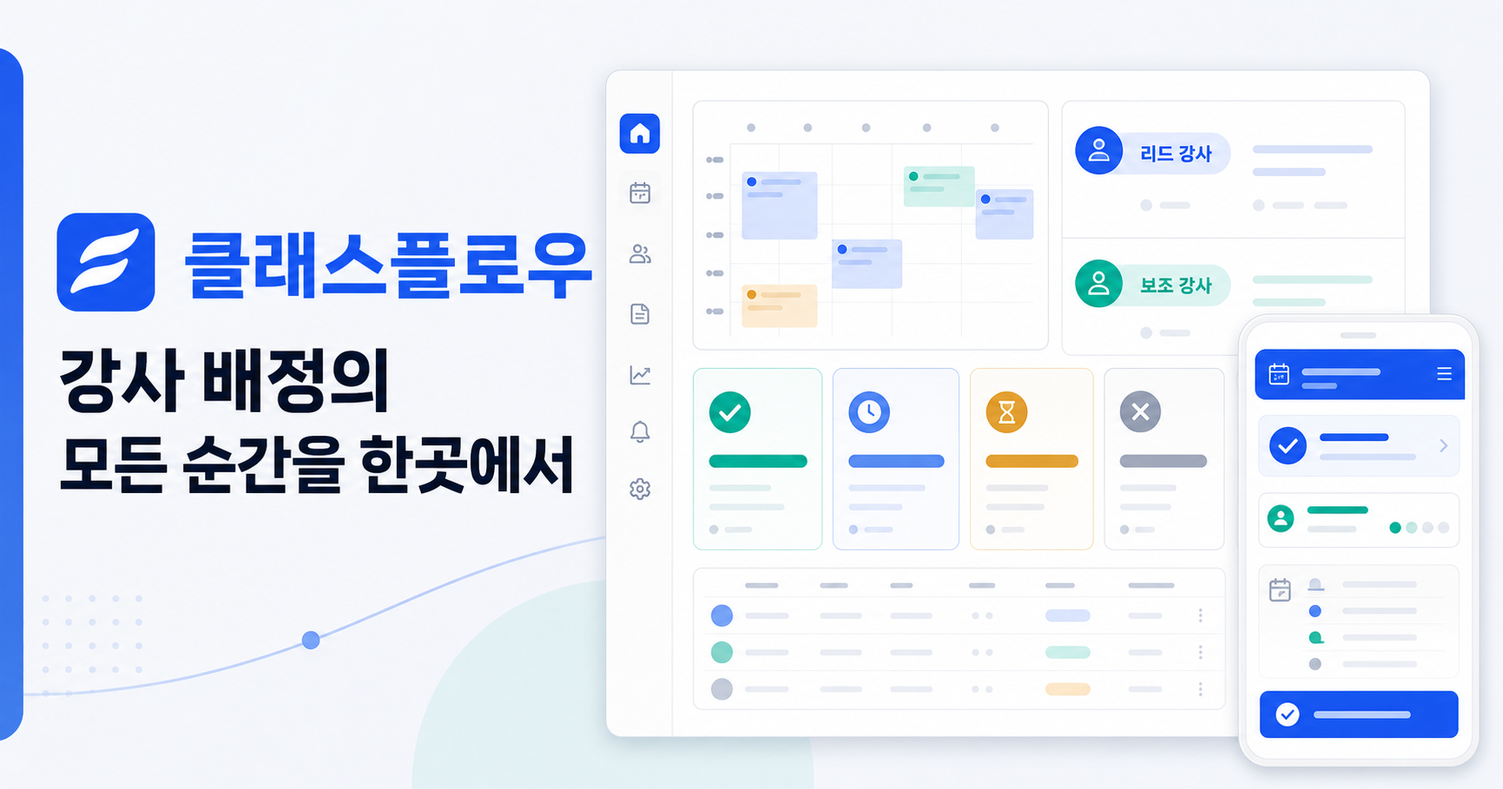
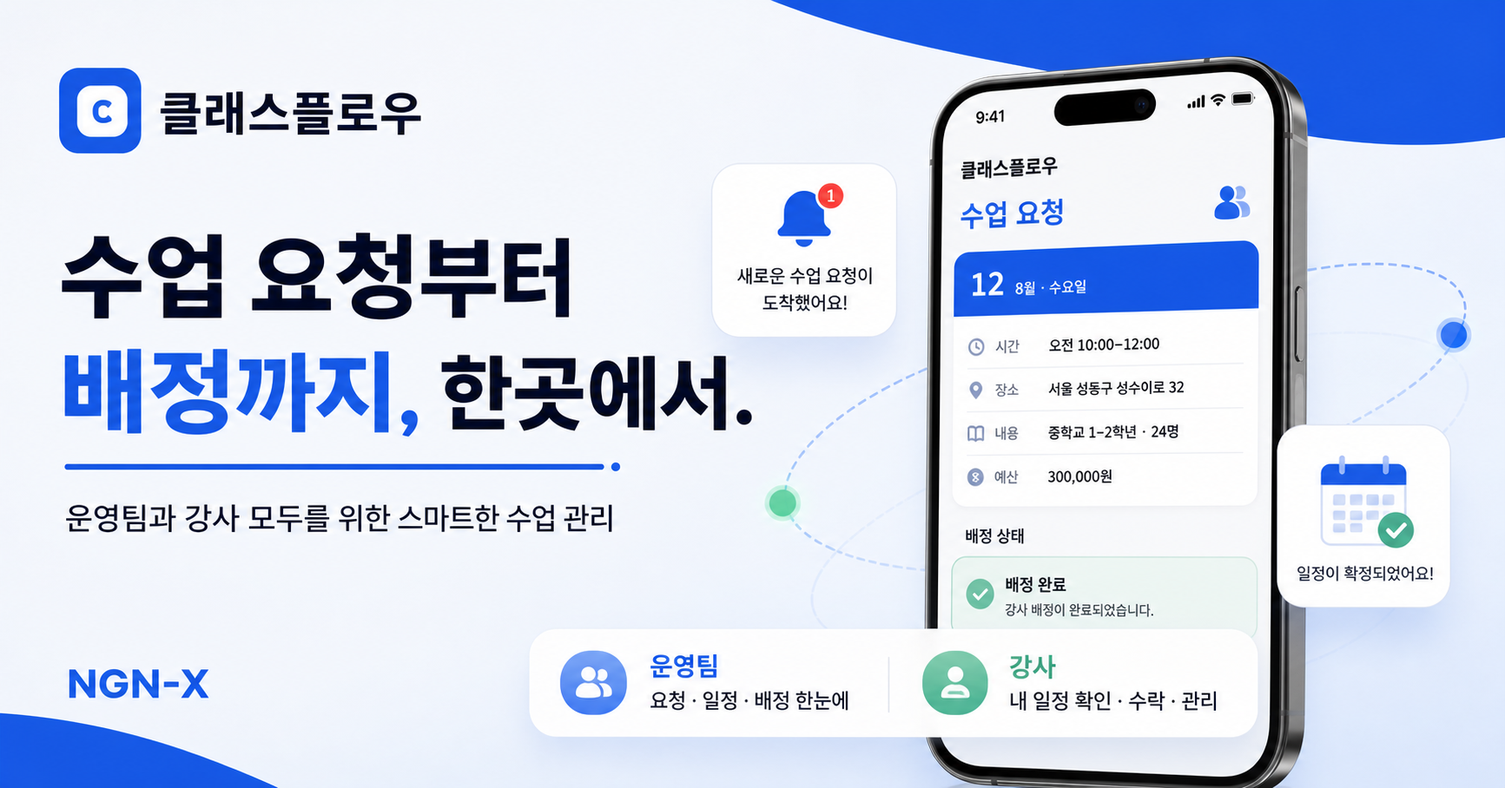
Add public ClassFlow landing and portal entry

diff --git a/app/globals.css b/app/globals.css
@@ -132,6 +132,16 @@ button:focus-visible, input:focus-visible, select:focus-visible, textarea:focus-
 }
 .instructor-request-list { margin-top: 16px; overflow: hidden; border: 1px solid var(--line); border-radius: 14px; background: #fff; box-shadow: var(--shadow); }.instructor-request-list > header { min-height: 68px; padding: 16px 19px; display: flex; align-items: center; justify-content: space-between; border-bottom: 1px solid var(--line); }.instructor-request-list h2 { margin: 0; font-size: 16px; }.instructor-request-list > header > span { padding: 5px 8px; border-radius: 12px; color: var(--blue); background: var(--blue-soft); font-size: 10px; font-weight: 800; }.instructor-request-card { padding: 18px 19px; border-top: 1px solid #edf0f4; }.instructor-request-card:first-of-type { border-top: 0; }.instructor-request-card h3 { margin: 8px 0 5px; font-size: 15px; }.instructor-request-card > div:first-child > p { margin: 0; color: var(--muted); font-size: 10px; }.instructor-request-card > div:first-child > small { display: block; margin-top: 6px; color: var(--red); font-size: 9px; font-weight: 700; }.instructor-request-status { padding: 5px 8px; border-radius: 14px; color: var(--blue); background: var(--blue-soft); font-size: 9px; font-weight: 800; }.instructor-role-responses { margin-top: 14px; display: grid; grid-template-columns: repeat(2,minmax(0,1fr)); gap: 10px; }.instructor-role-responses section { padding: 13px; border: 1px solid var(--line); border-radius: 11px; background: #fafbfc; }.instructor-role-responses header { display: flex; align-items: center; gap: 8px; }.instructor-role-responses header b { color: var(--blue); }.instructor-role-responses header strong { margin-left: auto; font-size: 11px; }.instructor-role-responses header span { padding: 4px 7px; border-radius: 12px; color: var(--muted); background: #eef1f5; font-size: 8px; }.instructor-role-responses p { min-height: 17px; margin: 9px 0; color: var(--muted); font-size: 9px; }.instructor-role-responses input { width: 100%; height: 38px; padding: 0 10px; border: 1px solid var(--line); border-radius: 8px; background: #fff; font-size: 10px; }.instructor-role-responses section > div { margin-top: 8px; display: grid; grid-template-columns: repeat(3,1fr); gap: 5px; }.instructor-role-responses button { min-height: 34px; border: 1px solid var(--line); border-radius: 7px; background: #fff; cursor: pointer; font-size: 9px; font-weight: 800; }.instructor-role-responses button:hover { color: var(--blue); border-color: #bdccf9; background: var(--blue-soft); }
 .confirmed-schedule { display: flex; align-items: center; justify-content: space-between; gap: 16px; }.confirmed-schedule .button { flex: 0 0 auto; }.assignment-acknowledged { color: var(--green); font-size: 10px; font-weight: 800; }.response-closed { min-height: auto !important; padding: 9px; border-radius: 7px; color: var(--muted); background: #eef1f5; text-align: center; font-weight: 700; }
+
+/* Public ClassFlow landing and role selection */
+.landing-page { min-height: 100vh; color: #0b1739; background: #fff; overflow: hidden; }.landing-page * { box-sizing: border-box; }.landing-header { width: min(1240px, calc(100% - 48px)); height: 82px; margin: 0 auto; display: flex; align-items: center; justify-content: space-between; position: relative; z-index: 10; }.landing-brand { display: inline-flex; align-items: center; gap: 10px; color: #0b1739; text-decoration: none; }.landing-brand-mark { width: 40px; height: 40px; border-radius: 12px; display: grid; place-items: center; color: #235bea; background: #fff; border: 1px solid #dce5ff; box-shadow: 0 8px 22px rgba(35,91,234,.13); font-size: 21px; font-weight: 950; }.landing-brand > span:last-child { display: flex; flex-direction: column; }.landing-brand b { font-size: 15px; letter-spacing: -.5px; }.landing-brand small { margin-top: 1px; color: #8b96aa; font-size: 8px; font-weight: 800; letter-spacing: 1px; }.landing-header nav { display: flex; align-items: center; gap: 28px; }.landing-header nav > a { color: #5c6880; text-decoration: none; font-size: 12px; font-weight: 750; }.landing-header nav > a:hover { color: #235bea; }.landing-header .landing-header-cta { min-height: 42px; padding: 0 16px 0 18px; border-radius: 12px; display: inline-flex; align-items: center; gap: 18px; color: #fff; background: #235bea; box-shadow: 0 10px 26px rgba(35,91,234,.22); }.landing-header-cta span { font-size: 17px; }
+.landing-hero { min-height: 690px; padding: 62px max(24px, calc((100vw - 1240px)/2)) 52px; display: grid; grid-template-columns: 1.03fr .97fr; align-items: center; position: relative; background: radial-gradient(circle at 77% 35%, rgba(89,137,255,.18), transparent 29%), linear-gradient(180deg,#fff 0%,#f7faff 100%); }.landing-hero::before { content: ""; width: 520px; height: 520px; border-radius: 50%; position: absolute; right: -250px; top: -310px; background: #235bea; }.landing-hero-copy { max-width: 650px; position: relative; z-index: 2; }.landing-eyebrow { display: inline-flex; align-items: center; gap: 8px; color: #235bea; font-size: 11px; font-weight: 850; letter-spacing: -.1px; }.landing-eyebrow i { width: 8px; height: 8px; border-radius: 50%; background: #2e67f3; box-shadow: 0 0 0 5px #e9efff; }.landing-hero h1 { margin: 22px 0 18px; color: #081432; font-size: clamp(48px,5vw,72px); line-height: 1.07; letter-spacing: -4.8px; }.landing-hero h1 em { color: #235bea; font-style: normal; }.landing-hero-copy > p { margin: 0; color: #56637a; font-size: 17px; line-height: 1.75; letter-spacing: -.5px; }.landing-actions { margin-top: 34px; display: flex; align-items: center; gap: 20px; }.landing-primary { min-height: 56px; padding: 0 20px 0 25px; border-radius: 14px; display: inline-flex; align-items: center; gap: 42px; color: #fff; background: linear-gradient(135deg,#2765f4,#174cda); box-shadow: 0 15px 34px rgba(35,91,234,.26); text-decoration: none; font-size: 14px; font-weight: 850; }.landing-primary span { font-size: 21px; }.landing-secondary { color: #445168; text-underline-offset: 5px; font-size: 12px; font-weight: 750; }.landing-proof { margin-top: 34px; display: flex; align-items: center; gap: 0; }.landing-proof span { padding: 0 20px; color: #738097; border-left: 1px solid #dce3ef; font-size: 10px; }.landing-proof span:first-child { padding-left: 0; border: 0; }.landing-proof b { display: block; margin-bottom: 3px; color: #14203c; font-size: 18px; }
+.landing-visual { min-height: 560px; display: grid; place-items: center; position: relative; }.landing-orbit { border: 2px dashed #8cb1ff; border-radius: 50%; position: absolute; opacity: .8; }.orbit-one { width: 570px; height: 260px; transform: rotate(-10deg); }.orbit-two { width: 430px; height: 430px; border-color: #dae5ff; }.phone-shell { width: 300px; height: 596px; padding: 12px; border-radius: 46px; position: relative; z-index: 3; background: linear-gradient(145deg,#20242b,#060709 68%); box-shadow: 0 32px 60px rgba(24,48,108,.25), inset 0 0 0 2px #7b7f85; transform: rotate(1.5deg); }.phone-speaker { width: 96px; height: 22px; border-radius: 0 0 15px 15px; position: absolute; z-index: 4; top: 10px; left: calc(50% - 48px); background: #050607; }.phone-screen { height: 100%; padding: 34px 16px 20px; overflow: hidden; border-radius: 35px; color: #101a32; background: #fff; }.phone-screen > header { display: flex; align-items: center; justify-content: space-between; font-size: 6px; }.phone-screen > header b { font-size: 9px; }.phone-screen > header small { color: #12a176; font-size: 6px; }.phone-request-label { display: inline-block; margin-top: 22px; padding: 5px 7px; border-radius: 10px; color: #235bea; background: #eef3ff; font-size: 7px; font-weight: 850; }.phone-screen h2 { margin: 10px 0 5px; font-size: 24px; line-height: 1.2; letter-spacing: -1.2px; }.phone-screen > p { margin: 0; color: #778196; font-size: 7px; }.phone-class-card { margin-top: 17px; overflow: hidden; border: 1px solid #dfe6f2; border-radius: 13px; box-shadow: 0 7px 20px rgba(30,60,120,.08); }.phone-date { height: 61px; padding: 0 15px; display: flex; align-items: center; gap: 7px; color: #fff; background: linear-gradient(135deg,#316bf2,#1651df); }.phone-date strong { font-size: 27px; }.phone-date span { font-size: 8px; font-weight: 750; }.phone-class-card dl { margin: 0; padding: 8px 14px; }.phone-class-card dl div { min-height: 35px; display: grid; grid-template-columns: 40px 1fr; align-items: center; border-top: 1px solid #edf0f5; }.phone-class-card dl div:first-child { border: 0; }.phone-class-card dt { color: #8993a6; font-size: 7px; }.phone-class-card dd { margin: 0; font-size: 8px; font-weight: 750; }.phone-screen h3 { margin: 19px 0 10px; font-size: 10px; }.phone-response { display: grid; grid-template-columns: repeat(3,1fr); gap: 6px; }.phone-response span { height: 62px; border: 1px solid; border-radius: 9px; display: flex; flex-direction: column; align-items: center; justify-content: center; gap: 5px; font-size: 7px; font-weight: 800; }.phone-response b { width: 24px; height: 24px; border-radius: 50%; display: grid; place-items: center; color: #fff; font-size: 12px; }.phone-response .available { color: #168a5b; border-color: #cdeadd; background: #f1fbf6; }.phone-response .available b { background: #42ba87; }.phone-response .conditional { color: #ca720b; border-color: #f4ddbd; background: #fff9f0; }.phone-response .conditional b { background: #f3a125; }.phone-response .unavailable { color: #d14343; border-color: #f2cece; background: #fff5f5; }.phone-response .unavailable b { background: #ef6161; }.floating-card { min-width: 190px; padding: 15px; border: 1px solid rgba(215,225,242,.95); border-radius: 17px; display: flex; align-items: center; gap: 11px; position: absolute; z-index: 5; background: rgba(255,255,255,.94); box-shadow: 0 18px 40px rgba(27,61,129,.13); backdrop-filter: blur(8px); }.floating-card > span { width: 38px; height: 38px; border-radius: 12px; display: grid; place-items: center; color: #235bea; background: #e9efff; font-size: 13px; }.floating-card div { display: flex; flex-direction: column; }.floating-card b { color: #182440; font-size: 10px; }.floating-card small { margin-top: 4px; color: #7a8599; font-size: 8px; }.floating-card em { width: 20px; height: 20px; border: 3px solid #fff; border-radius: 50%; position: absolute; top: -7px; right: -5px; display: grid; place-items: center; color: #fff; background: #ee4e55; font-size: 8px; font-style: normal; font-weight: 900; }.floating-alert { left: -32px; top: 110px; }.floating-calendar { right: -44px; bottom: 105px; }.floating-calendar > span { color: #fff; background: #28b889; }
+.landing-benefits { padding: 110px max(24px,calc((100vw - 1160px)/2)); background: #fff; }.landing-section-title { max-width: 670px; margin: 0 auto 55px; text-align: center; }.landing-section-title > span,.landing-section-kicker { color: #235bea; font-size: 10px; font-weight: 900; letter-spacing: 2px; }.landing-section-title h2 { margin: 14px 0; font-size: clamp(34px,4vw,48px); line-height: 1.18; letter-spacing: -2.7px; }.landing-section-title p { margin: 0; color: #69758a; font-size: 14px; }.audience-grid { display: grid; grid-template-columns: 1fr 1fr; gap: 24px; }.audience-card { padding: 30px; border: 1px solid #dfe7f5; border-radius: 24px; background: #f8faff; box-shadow: 0 18px 60px rgba(28,58,112,.07); }.audience-card.instructors { background: #f7fcfa; border-color: #d9eee8; }.audience-card > header { min-height: 94px; padding-bottom: 23px; display: flex; align-items: center; gap: 12px; border-bottom: 1px solid #dde5f2; }.audience-card > header > span { width: 50px; height: 50px; border-radius: 15px; display: grid; place-items: center; color: #235bea; background: #e7eeff; font-size: 23px; }.audience-card.instructors > header > span { color: #0d8e76; background: #daf5ed; }.audience-card header div { display: flex; flex-direction: column; }.audience-card header small { color: #235bea; font-size: 8px; font-weight: 900; letter-spacing: 1.3px; }.audience-card.instructors header small { color: #0b9279; }.audience-card h3 { margin: 4px 0 0; font-size: 22px; }.audience-card header > b { margin-left: auto; font-size: 16px; line-height: 1.45; text-align: right; }.audience-card ul { margin: 0; padding: 10px 0 0; list-style: none; }.audience-card li { padding: 18px 0; display: flex; gap: 15px; border-bottom: 1px solid #e3e9f3; }.audience-card li:last-child { border: 0; padding-bottom: 0; }.audience-card li > span { width: 28px; height: 28px; border-radius: 50%; display: grid; place-items: center; flex: 0 0 auto; color: #235bea; background: #fff; border: 1px solid #dbe4f7; font-size: 8px; font-weight: 900; }.audience-card.instructors li > span { color: #0b9279; border-color: #d5eae4; }.audience-card li b { font-size: 13px; }.audience-card li p { margin: 6px 0 0; color: #6e7a8f; font-size: 10px; line-height: 1.6; }
+.landing-flow { padding: 90px max(24px,calc((100vw - 1160px)/2)); color: #fff; background: #0c1838; }.landing-flow > div { text-align: center; }.landing-flow h2 { margin: 13px 0 48px; font-size: 38px; letter-spacing: -2px; }.landing-flow ol { margin: 0; padding: 0; display: grid; grid-template-columns: repeat(4,1fr); list-style: none; }.landing-flow li { min-height: 140px; padding: 20px 26px; position: relative; border-left: 1px solid #263453; }.landing-flow li:first-child { border: 0; }.landing-flow li > span { width: 34px; height: 34px; margin-bottom: 17px; border-radius: 50%; display: grid; place-items: center; color: #fff; background: #235bea; font-size: 10px; font-weight: 900; }.landing-flow li b { display: block; font-size: 15px; }.landing-flow li p { margin: 8px 0 0; color: #9eabc2; font-size: 10px; }.landing-final-cta { width: min(1160px,calc(100% - 48px)); margin: 110px auto; padding: 58px 64px; border-radius: 28px; display: flex; align-items: center; justify-content: space-between; color: #fff; background: radial-gradient(circle at 83% 10%,rgba(116,156,255,.55),transparent 30%),linear-gradient(135deg,#285fe5,#1646c8); box-shadow: 0 24px 60px rgba(35,91,234,.25); }.landing-final-cta > div > span { font-size: 9px; font-weight: 900; letter-spacing: 2px; opacity: .75; }.landing-final-cta h2 { margin: 13px 0 10px; font-size: 34px; line-height: 1.2; letter-spacing: -2px; }.landing-final-cta p { margin: 0; color: #dce6ff; font-size: 11px; }.landing-final-cta > a { min-width: 225px; min-height: 58px; padding: 0 20px 0 24px; border-radius: 14px; display: flex; align-items: center; justify-content: space-between; color: #1749c8; background: #fff; text-decoration: none; font-size: 12px; font-weight: 850; }.landing-final-cta > a span { font-size: 20px; }.landing-footer { min-height: 140px; padding: 38px max(24px,calc((100vw - 1160px)/2)); display: grid; grid-template-columns: 1fr 1fr 1fr; align-items: center; border-top: 1px solid #e7ebf2; }.landing-footer > p { color: #778298; text-align: center; font-size: 9px; }.landing-footer > small { color: #9ba4b4; text-align: right; font-size: 8px; }
+.portal-select-page { min-height: 100vh; color: #0b1739; background: radial-gradient(circle at 50% 10%,rgba(81,125,244,.13),transparent 27%),#f7f9fd; }.portal-select-page > header { width: min(1160px,calc(100% - 48px)); height: 82px; margin: 0 auto; display: flex; align-items: center; justify-content: space-between; }.portal-select-page > header > a:last-child { color: #657188; text-decoration: none; font-size: 10px; font-weight: 750; }.portal-select-content { width: min(940px,calc(100% - 40px)); margin: 0 auto; padding: 62px 0 90px; text-align: center; }.portal-select-content > h1 { margin: 15px 0 14px; font-size: clamp(36px,4vw,52px); line-height: 1.14; letter-spacing: -3px; }.portal-select-content > p { margin: 0; color: #6b768b; font-size: 13px; }.portal-options { margin-top: 45px; display: grid; grid-template-columns: 1fr 1fr; gap: 20px; text-align: left; }.portal-option { min-height: 430px; padding: 32px; border: 1px solid #dce5f5; border-radius: 24px; display: block; position: relative; overflow: hidden; color: #0b1739; background: #fff; box-shadow: 0 20px 60px rgba(29,55,108,.08); text-decoration: none; transition: transform .2s ease,box-shadow .2s ease,border-color .2s ease; }.portal-option::before { content: ""; width: 190px; height: 190px; border-radius: 50%; position: absolute; right: -80px; top: -80px; background: #e9efff; }.portal-option.instructors::before { background: #e3f7f1; }.portal-option:hover { transform: translateY(-5px); border-color: #9db8ff; box-shadow: 0 28px 70px rgba(29,55,108,.14); }.portal-option.instructors:hover { border-color: #8bd8c5; }.portal-icon { width: 58px; height: 58px; margin-bottom: 24px; border-radius: 18px; display: grid; place-items: center; position: relative; color: #235bea; background: #e7eeff; font-size: 25px; }.portal-option.instructors .portal-icon { color: #0b9279; background: #dff6ef; }.portal-option > small { color: #235bea; font-size: 8px; font-weight: 900; letter-spacing: 1.6px; }.portal-option.instructors > small { color: #0b9279; }.portal-option h2 { margin: 7px 0 12px; font-size: 30px; letter-spacing: -1.5px; }.portal-option > p { margin: 0; color: #657188; font-size: 12px; line-height: 1.65; }.portal-option ul { margin: 26px 0 30px; padding: 19px 0; list-style: none; border-top: 1px solid #e6ebf3; border-bottom: 1px solid #e6ebf3; }.portal-option li { padding: 5px 0 5px 20px; position: relative; color: #4d596f; font-size: 10px; }.portal-option li::before { content: "✓"; position: absolute; left: 0; color: #235bea; font-weight: 900; }.portal-option.instructors li::before { color: #0b9279; }.portal-option > b { display: flex; align-items: center; justify-content: space-between; color: #235bea; font-size: 12px; }.portal-option.instructors > b { color: #0b9279; }.portal-option > b i { font-size: 21px; font-style: normal; }.portal-help { display: block; margin-top: 28px; color: #8993a6; font-size: 9px; }
+@media (max-width: 920px) { .landing-header { width: min(100% - 28px,1240px); }.landing-header nav > a:not(.landing-header-cta) { display: none; }.landing-hero { padding-top: 45px; grid-template-columns: 1fr; text-align: center; }.landing-hero::before { width: 330px; height: 330px; right: -220px; top: -220px; }.landing-hero-copy { margin: 0 auto; }.landing-eyebrow { justify-content: center; }.landing-actions,.landing-proof { justify-content: center; }.landing-visual { margin-top: 30px; }.audience-grid { grid-template-columns: 1fr; }.landing-flow ol { grid-template-columns: 1fr 1fr; }.landing-flow li:nth-child(3) { border-left: 0; border-top: 1px solid #263453; }.landing-flow li:nth-child(4) { border-top: 1px solid #263453; }.landing-final-cta { padding: 45px; align-items: flex-start; flex-direction: column; gap: 28px; }.landing-footer { grid-template-columns: 1fr; gap: 18px; text-align: center; }.landing-footer .landing-brand { justify-self: center; }.landing-footer > small { text-align: center; }.portal-options { grid-template-columns: 1fr; }.portal-option { min-height: auto; } }
+@media (max-width: 560px) { .landing-header { height: 68px; }.landing-brand-mark { width: 36px; height: 36px; }.landing-header nav { gap: 0; }.landing-header .landing-header-cta { min-height: 38px; padding: 0 12px; gap: 8px; font-size: 9px; }.landing-hero { min-height: auto; padding: 42px 18px 50px; }.landing-eyebrow { font-size: 9px; }.landing-hero h1 { margin-top: 17px; font-size: 42px; letter-spacing: -3.5px; }.landing-hero-copy > p { font-size: 13px; }.desktop-break { display: none; }.landing-actions { flex-direction: column; gap: 15px; }.landing-primary { width: 100%; max-width: 330px; justify-content: space-between; }.landing-proof span { padding: 0 11px; }.landing-proof b { font-size: 14px; }.landing-visual { min-height: 510px; transform: scale(.88); margin: -5px -25px -35px; }.phone-shell { width: 280px; height: 556px; }.floating-alert { left: 3px; top: 78px; }.floating-calendar { right: 0; bottom: 74px; }.floating-card { min-width: 145px; padding: 11px; }.floating-card > span { width: 32px; height: 32px; }.landing-benefits { padding: 76px 16px; }.landing-section-title { margin-bottom: 34px; }.landing-section-title h2 { font-size: 31px; letter-spacing: -2px; }.audience-card { padding: 22px 18px; }.audience-card > header { align-items: flex-start; flex-wrap: wrap; }.audience-card header > b { width: 100%; margin: 4px 0 0; text-align: left; }.landing-flow { padding: 70px 18px; }.landing-flow h2 { font-size: 28px; }.landing-flow ol { grid-template-columns: 1fr; }.landing-flow li,.landing-flow li:nth-child(3),.landing-flow li:nth-child(4) { min-height: 105px; padding: 20px 14px; border: 0; border-top: 1px solid #263453; }.landing-flow li:first-child { border: 0; }.landing-flow li > span { margin-bottom: 10px; }.landing-final-cta { width: calc(100% - 32px); margin: 70px auto; padding: 34px 24px; }.landing-final-cta h2 { font-size: 29px; }.landing-final-cta > a { width: 100%; min-width: 0; }.portal-select-page > header { width: calc(100% - 28px); height: 68px; }.portal-select-content { padding: 50px 0 70px; }.portal-select-content > h1 { font-size: 34px; letter-spacing: -2.3px; }.portal-options { margin-top: 32px; }.portal-option { padding: 25px; }.portal-select-page > header > a:last-child { font-size: 8px; } }
 .response-header-actions { display: flex; gap: 8px; }.response-readiness { padding: 14px 19px; display: grid; grid-template-columns: 1fr 1fr; gap: 10px; background: #fafbfc; border-bottom: 1px solid var(--line); }.response-readiness article { min-height: 58px; padding: 11px 13px; border: 1px solid var(--line); border-radius: 10px; background: #fff; }.response-readiness span, .response-readiness b { display: block; }.response-readiness span { color: var(--muted); font-size: 9px; }.response-readiness b { margin-top: 6px; font-size: 11px; }.response-readiness .ready b { color: var(--green); }.response-readiness .shortage b { color: var(--red); }.response-toolbar { min-height: 58px; padding: 10px 19px; display: flex; align-items: center; justify-content: space-between; gap: 12px; border-bottom: 1px solid var(--line); }.response-feedback { margin: 12px 19px 0; padding: 11px 13px; border-radius: 9px; font-size: 10px; font-weight: 700; }.response-feedback.success { color: var(--green); background: var(--green-soft); }.response-feedback.error { color: var(--red); background: #fff1f1; }.response-operations-head.real, .response-operations-row.real { min-width: 980px; grid-template-columns: 44px 1.1fr .8fr 1.3fr 1.2fr .9fr; }.response-operations-row.real input { width: 16px; height: 16px; accent-color: var(--blue); }.response-operations-row.real > span:nth-child(2) b, .response-operations-row.real > span:nth-child(2) small, .response-operations-row.real > span:last-child small { display: block; }.response-operations-row.real > span:nth-child(2) small, .response-operations-row.real > span:last-child small { margin-top: 3px; color: var(--muted); font-size: 8px; }.response-operations-row.real .status { white-space: normal; line-height: 1.35; }
 .instructor-notification-center { margin-top: 16px; overflow: hidden; border: 1px solid var(--line); border-radius: 14px; background: #fff; box-shadow: var(--shadow); }.instructor-notification-center > header { min-height: 68px; padding: 15px 19px; display: flex; align-items: center; justify-content: space-between; gap: 16px; border-bottom: 1px solid var(--line); }.instructor-notification-center h2 { margin: 0; font-size: 16px; }.instructor-notification-center header p { margin: 4px 0 0; color: var(--muted); font-size: 9px; }.push-permission { padding: 10px 12px; border: 1px solid #cbd8ff; border-radius: 9px; color: var(--blue); background: var(--blue-soft); cursor: pointer; font-size: 9px; font-weight: 800; }.push-permission.enabled { color: var(--green); border-color: #bfe6d5; background: var(--green-soft); cursor: default; }.instructor-notification-item { min-height: 72px; padding: 13px 19px; display: grid; grid-template-columns: 38px 1fr auto; align-items: center; gap: 12px; border-top: 1px solid #edf0f4; }.instructor-notification-item.unread { background: #f8faff; }.instructor-notification-item > span { width: 36px; height: 36px; border-radius: 10px; display: grid; place-items: center; color: var(--blue); background: var(--blue-soft); font-weight: 900; }.instructor-notification-item b, .instructor-notification-item p, .instructor-notification-item small { display: block; }.instructor-notification-item b { font-size: 11px; }.instructor-notification-item p { margin: 4px 0; color: var(--muted); font-size: 9px; }.instructor-notification-item small { color: #98a1b2; font-size: 8px; }.instructor-notification-item button { border: 0; color: var(--blue); background: transparent; cursor: pointer; font-size: 9px; font-weight: 800; }
 

diff --git a/app/page.tsx b/app/page.tsx
@@ -1,9 +1,68 @@
-import ClassFlowApp from "./ClassFlowApp";
-import { requireAdmin } from "../lib/auth";
+import Link from "next/link";
+import { getCurrentProfile } from "../lib/auth";
 
 export const dynamic = "force-dynamic";
 
-export default async function Home() {
-  const admin = await requireAdmin();
-  return <ClassFlowApp currentAdmin={{ name: admin.full_name, email: admin.email, role: admin.role }} />;
+function portalFor(profile: Awaited<ReturnType<typeof getCurrentProfile>>) {
+  if (!profile) return { href: "/start", label: "시작하기" };
+  if (profile.role === "instructor") return profile.status === "active"
+    ? { href: "/instructor/dashboard", label: "강사센터로 이동" }
+    : { href: "/instructor", label: "계정 상태 확인" };
+  if (["super_admin", "service_admin"].includes(profile.role) && profile.status === "active") {
+    return { href: "/operations", label: "운영센터로 이동" };
+  }
+  return { href: "/access-pending", label: "계정 상태 확인" };
+}
+
+export default async function LandingPage() {
+  const profile = await getCurrentProfile();
+  const portal = portalFor(profile);
+
+  return <main className="landing-page">
+    <header className="landing-header">
+      <Link className="landing-brand" href="/" aria-label="클래스플로우 홈"><span className="landing-brand-mark">C</span><span><b>클래스플로우</b><small>by NGN-X</small></span></Link>
+      <nav aria-label="랜딩페이지 메뉴"><a href="#benefits">서비스 소개</a><a href="#how-it-works">이용 방법</a><Link className="landing-header-cta" href={portal.href}>{portal.label}<span>→</span></Link></nav>
+    </header>
+
+    <section className="landing-hero">
+      <div className="landing-hero-copy">
+        <span className="landing-eyebrow"><i /> 운영센터와 강사를 하나로 연결하는 배정 플랫폼</span>
+        <h1>수업 요청부터<br /><em>배정까지, 한곳에서.</em></h1>
+        <p>흩어진 연락과 응답을 한 화면에 모으고,<br className="desktop-break" /> 역할·수업료·확정 일정까지 빠르게 연결하세요.</p>
+        <div className="landing-actions"><Link className="landing-primary" href={portal.href}>{profile ? portal.label : "무료로 시작하기"}<span>→</span></Link><a className="landing-secondary" href="#benefits">어떻게 달라지나요?</a></div>
+        <div className="landing-proof"><span><b>10초</b> 강사 응답</span><span><b>한눈에</b> 응답 현황</span><span><b>즉시</b> 배정 결과</span></div>
+      </div>
+
+      <div className="landing-visual" aria-label="클래스플로우 강사 수업 요청 화면 예시">
+        <div className="landing-orbit orbit-one" /><div className="landing-orbit orbit-two" />
+        <article className="floating-card floating-alert"><span>●</span><div><b>새 수업 요청</b><small>응답 마감 D-2</small></div><em>1</em></article>
+        <article className="floating-card floating-calendar"><span>✓</span><div><b>일정 확정</b><small>내 일정에 자동 등록</small></div></article>
+        <div className="phone-shell">
+          <div className="phone-speaker" />
+          <div className="phone-screen">
+            <header><span>← 관리자 화면</span><b>클래스플로우</b><small>안전한 응답 링크</small></header>
+            <div className="phone-request-label">새 수업 요청이 도착했어요</div>
+            <h2>AI 창의융합<br />체험 수업</h2>
+            <p>성수중학교 · 중학교 1~2학년</p>
+            <article className="phone-class-card"><div className="phone-date"><strong>12</strong><span>8월 · 수요일</span></div><dl><div><dt>시간</dt><dd>오전 10:00~12:00</dd></div><div><dt>장소</dt><dd>서울 성동구</dd></div><div><dt>역할</dt><dd>주강사 · 300,000원</dd></div></dl></article>
+            <h3>참여 가능하신가요?</h3>
+            <div className="phone-response"><span className="available"><b>✓</b>가능</span><span className="conditional"><b>!</b>조건부 가능</span><span className="unavailable"><b>×</b>불가능</span></div>
+          </div>
+        </div>
+      </div>
+    </section>
+
+    <section className="landing-benefits" id="benefits">
+      <div className="landing-section-title"><span>WHY CLASSFLOW</span><h2>연락에 쓰던 시간을,<br />수업 운영에 돌려드립니다.</h2><p>운영센터에는 빠른 판단을, 강사에게는 명확한 요청과 일정을 제공합니다.</p></div>
+      <div className="audience-grid">
+        <article className="audience-card operations"><header><span>◎</span><div><small>FOR OPERATIONS</small><h3>운영센터</h3></div><b>연락은 줄이고<br />배정은 빠르게</b></header><ul><li><span>01</span><div><b>응답 현황을 한눈에</b><p>가능·조건부·불가능·미응답을 역할별로 바로 확인합니다.</p></div></li><li><span>02</span><div><b>필요한 강사에게만 재알림</b><p>미응답자를 찾아 개별 연락하는 시간을 줄입니다.</p></div></li><li><span>03</span><div><b>수업료까지 정확하게 확정</b><p>주·보조강사 역할과 수업료를 함께 배정하고 기록합니다.</p></div></li></ul></article>
+        <article className="audience-card instructors"><header><span>♙</span><div><small>FOR INSTRUCTORS</small><h3>강사</h3></div><b>조건은 명확하게<br />일정은 간편하게</b></header><ul><li><span>01</span><div><b>요청 조건을 10초 안에 확인</b><p>일정·장소·역할·수업료를 한 화면에서 확인합니다.</p></div></li><li><span>02</span><div><b>가능 여부를 바로 응답</b><p>가능·조건부 가능·불가능 중 내 상황에 맞게 전달합니다.</p></div></li><li><span>03</span><div><b>배정 결과와 일정을 한곳에서</b><p>최종 역할과 확정 일정을 놓치지 않고 관리합니다.</p></div></li></ul></article>
+      </div>
+    </section>
+
+    <section className="landing-flow" id="how-it-works"><div><span className="landing-section-kicker">SIMPLE FLOW</span><h2>등록하고, 응답받고, 확정하세요.</h2></div><ol><li><span>1</span><b>수업 등록</b><p>일정·역할·수업료 입력</p></li><li><span>2</span><b>강사 요청</b><p>내부 알림과 무료 웹 푸시</p></li><li><span>3</span><b>응답 확인</b><p>역할별 후보와 조건 비교</p></li><li><span>4</span><b>최종 배정</b><p>결과 안내와 일정 자동 등록</p></li></ol></section>
+
+    <section className="landing-final-cta"><div><span>NGN-X · CLASSFLOW</span><h2>강사 배정,<br />이제 연락보다 흐름으로 관리하세요.</h2><p>운영센터와 강사 모두에게 더 명확한 수업 운영을 시작합니다.</p></div><Link href={portal.href}>{profile ? portal.label : "클래스플로우 시작하기"}<span>→</span></Link></section>
+    <footer className="landing-footer"><Link className="landing-brand" href="/"><span className="landing-brand-mark">C</span><span><b>클래스플로우</b><small>by NGN-X</small></span></Link><p>수업 요청·응답·배정을 한곳에서 관리하는 강사 운영 플랫폼</p><small>© 2026 NGN-X. All rights reserved.</small></footer>
+  </main>;
 }

diff --git a/app/settings/SettingsClient.tsx b/app/settings/SettingsClient.tsx
@@ -1,5 +1,5 @@
 "use client";
-/* eslint-disable react-hooks/set-state-in-effect, @next/next/no-html-link-for-pages -- vinext client prefetch is unreliable; full navigation is intentional for protected routes. */
+/* eslint-disable react-hooks/set-state-in-effect -- vinext client prefetch is unreliable; full navigation is intentional for protected routes. */
 
 import { FormEvent, useCallback, useEffect, useMemo, useState } from "react";
 import { createClient } from "../../lib/supabase/client";
@@ -130,11 +130,11 @@ export default function SettingsClient({ currentAdmin }: { currentAdmin: AdminId
 
   return <main className="settings-page">
     <header className="settings-header">
-      <a href="/" className="settings-brand"><span className="brand-mark">C</span><span>클래스플로우<small>OPERATIONS SETTINGS</small></span></a>
+      <a href="/operations" className="settings-brand"><span className="brand-mark">C</span><span>클래스플로우<small>OPERATIONS SETTINGS</small></span></a>
       <div><span><b>{currentAdmin.name}</b><small>{currentAdmin.email}</small></span><a className="button secondary settings-logout" href="/auth/signout">로그아웃</a></div>
     </header>
     <div className="settings-shell">
-      <aside className="settings-menu"><a href="/">← 운영센터로 돌아가기</a><p>설정</p><button className={section === "admins" ? "active" : ""} onClick={() => setSection("admins")}><span>◎</span>관리자 관리</button><button className={section === "security" ? "active" : ""} onClick={() => setSection("security")}><span>◈</span>보안·활동 기록</button></aside>
+      <aside className="settings-menu"><a href="/operations">← 운영센터로 돌아가기</a><p>설정</p><button className={section === "admins" ? "active" : ""} onClick={() => setSection("admins")}><span>◎</span>관리자 관리</button><button className={section === "security" ? "active" : ""} onClick={() => setSection("security")}><span>◈</span>보안·활동 기록</button></aside>
       <section className="settings-content">
         {message && <div className="settings-message success" role="status">✓ {message}</div>}
         {error && <div className="settings-message error" role="alert">! {error}</div>}

diff --git a/app/start/page.tsx b/app/start/page.tsx
@@ -1,0 +1,22 @@
+import Link from "next/link";
+import { redirect } from "next/navigation";
+import { getCurrentProfile } from "../../lib/auth";
+
+export const dynamic = "force-dynamic";
+
+export default async function StartPage() {
+  const profile = await getCurrentProfile();
+  if (profile?.role === "instructor") redirect(profile.status === "active" ? "/instructor/dashboard" : "/instructor");
+  if (profile && ["super_admin", "service_admin"].includes(profile.role)) redirect(profile.status === "active" ? "/operations" : "/access-pending");
+
+  return <main className="portal-select-page">
+    <header><Link className="landing-brand" href="/"><span className="landing-brand-mark">C</span><span><b>클래스플로우</b><small>by NGN-X</small></span></Link><Link href="/">← 소개 화면으로</Link></header>
+    <section className="portal-select-content"><span className="landing-section-kicker">GET STARTED</span><h1>어떤 목적으로<br />클래스플로우를 이용하시나요?</h1><p>이용할 센터를 선택하면 알맞은 로그인 화면으로 연결됩니다.</p>
+      <div className="portal-options">
+        <Link className="portal-option operations" href="/login"><span className="portal-icon">◎</span><small>OPERATIONS CENTER</small><h2>운영센터</h2><p>수업을 등록하고 강사 응답과<br />최종 배정을 관리합니다.</p><ul><li>수업·수업료 등록</li><li>응답 현황·재알림</li><li>최종 강사 배정</li></ul><b>운영센터 로그인 <i>→</i></b></Link>
+        <Link className="portal-option instructors" href="/instructor/login"><span className="portal-icon">♙</span><small>INSTRUCTOR CENTER</small><h2>강사센터</h2><p>새 수업 요청에 응답하고<br />확정 일정을 확인합니다.</p><ul><li>역할·수업료 확인</li><li>가능 여부 응답</li><li>배정 결과·내 일정</li></ul><b>강사 로그인 <i>→</i></b></Link>
+      </div>
+      <small className="portal-help">로그인에 문제가 있나요? NGN-X 운영 담당자에게 문의해 주세요.</small>
+    </section>
+  </main>;
+}

diff --git a/app/layout.tsx b/app/layout.tsx
@@ -3,19 +3,19 @@ import "./globals.css";
 
 export const metadata: Metadata = {
   metadataBase: new URL(process.env.NEXT_PUBLIC_SITE_URL ?? "http://localhost:3000"),
-  title: "클래스플로우 | 강사 배정 운영 플랫폼",
-  description: "수업 모집부터 강사 응답, 역할별 수업료와 최종 배정까지 한곳에서 관리하세요.",
+  title: "클래스플로우 | 수업 요청부터 배정까지, 한곳에서",
+  description: "NGN-X 운영센터와 강사를 연결해 수업 요청, 응답, 역할별 수업료와 확정 일정을 한곳에서 관리합니다.",
   openGraph: {
     title: "클래스플로우",
-    description: "강사 배정의 모든 순간을 한곳에서",
-    images: [{ url: "/og.png", width: 1728, height: 909, alt: "클래스플로우 강사 배정 운영 화면" }],
+    description: "운영센터에는 빠른 배정을, 강사에게는 명확한 요청과 일정을.",
+    images: [{ url: "/og.png", width: 1734, height: 909, alt: "수업 요청부터 배정까지 연결하는 클래스플로우" }],
     locale: "ko_KR",
     type: "website",
   },
   twitter: {
     card: "summary_large_image",
     title: "클래스플로우",
-    description: "강사 배정의 모든 순간을 한곳에서",
+    description: "운영센터에는 빠른 배정을, 강사에게는 명확한 요청과 일정을.",
     images: ["/og.png"],
   },
 };

diff --git a/app/instructor/dashboard/page.tsx b/app/instructor/dashboard/page.tsx
@@ -7,7 +7,7 @@ export const dynamic = "force-dynamic";
 export default async function InstructorDashboardPage() {
   const profile = await getCurrentProfile();
   if (!profile) redirect("/instructor/login");
-  if (profile.role !== "instructor") redirect("/");
+  if (profile.role !== "instructor") redirect("/operations");
   if (profile.status !== "active") redirect("/instructor");
   return <InstructorDashboardClient instructorName={profile.full_name.trim() || "강사"} />;
 }

diff --git a/app/instructor/page.tsx b/app/instructor/page.tsx
@@ -7,7 +7,7 @@ export const dynamic = "force-dynamic";
 export default async function InstructorHomePage() {
   const profile = await getCurrentProfile();
   if (!profile) redirect("/instructor/login");
-  if (profile.role !== "instructor") redirect("/");
+  if (profile.role !== "instructor") redirect("/operations");
   if (profile.status === "active") redirect("/instructor/dashboard");
   const suspended = profile.status === "suspended";
 

diff --git a/app/operations/page.tsx b/app/operations/page.tsx
@@ -1,0 +1,9 @@
+import ClassFlowApp from "../ClassFlowApp";
+import { requireAdmin } from "../../lib/auth";
+
+export const dynamic = "force-dynamic";
+
+export default async function OperationsPage() {
+  const admin = await requireAdmin();
+  return <ClassFlowApp currentAdmin={{ name: admin.full_name, email: admin.email, role: admin.role }} />;
+}

diff --git a/app/login/page.tsx b/app/login/page.tsx
@@ -34,7 +34,7 @@ export default function LoginPage() {
       headers: { "content-type": "application/json" },
       body: JSON.stringify({ action: "admin_login" }),
     }).catch(() => undefined);
-    window.location.assign("/");
+    window.location.assign("/operations");
   }
 
   return (

diff --git a/prd(1).md b/prd(1).md
@@ -1,6 +1,6 @@
 # 강사 출강 운영 플랫폼 PRD
 
-> 문서 상태: Draft v0.7
+> 문서 상태: Draft v0.8
 > 작성일: 2026-08-08  
 > 마지막 요구사항 변경: 2026-08-12
 > 초기 운영 대상: 15명 내외의 소속 강사를 관리하는 단일 교육업체
@@ -44,6 +44,16 @@
 - 알림톡은 MVP 필수 의존성에서 제외하고, 향후 도달률·운영비·고객 요구를 확인한 뒤 공급자 어댑터로 선택 연동한다.
 - 관리자 응답 현황은 Supabase의 실제 모집 대상·역할별 응답을 기준으로 요청·가능·조건부·불가능·미응답 수, 조건, 응답 시각, 역할별 후보 충족 여부를 표시한다.
 - 재알림은 미응답 역할이 남은 강사를 관리자가 선택해 발송하며 내부 알림 저장, 웹 푸시 발송 결과, 최근 재알림 시각과 관리자 활동 이력을 보존한다.
+
+## v0.8 공개 랜딩·역할별 서비스 진입 요구사항
+
+- `NGN-X`는 운영 교육업체명, `클래스플로우`는 서비스명으로 구분해 표시한다.
+- 서비스 루트(`/`)는 운영센터와 강사 모두를 대상으로 하는 공개 홍보 랜딩페이지로 제공한다.
+- 랜딩페이지는 운영센터의 `응답 현황·선택 재알림·역할별 최종 배정` 이점과 강사의 `요청 조건 확인·간편 응답·확정 일정 관리` 이점을 한눈에 전달한다.
+- 익명 사용자가 `시작하기`를 누르면 운영센터와 강사센터 중 하나를 선택하는 화면으로 이동한다.
+- 운영센터 선택은 관리자 로그인, 강사 선택은 강사 로그인으로 연결한다.
+- 활성 로그인 세션이 있으면 랜딩 상단과 시작하기 버튼은 역할에 맞는 운영센터 또는 강사센터로 바로 연결한다. 루트 랜딩 자체는 로그인 여부와 관계없이 공개 상태로 유지한다.
+- 관리자 운영 화면은 공개 루트와 분리된 보호 경로(`/operations`)에서 제공한다.
 
 ## 1. 문서 목적
 
@@ -150,7 +160,7 @@
 
 ### 6.1 전체 서비스 흐름
 
-`로그인 → 일정 조율 → 강사 배정 → 수업 확정 → 수업 준비 → 수업 진행 → 비용 정산`
+`공개 랜딩 → 고객 유형 선택 → 역할별 로그인 → 일정 조율 → 강사 배정 → 수업 확정 → 수업 준비 → 수업 진행 → 비용 정산`
 
 초기 MVP는 이 가운데 `로그인 → 일정 조율 → 강사 배정 → 수업 확정`을 우선 구현한다.
 
@@ -354,6 +364,13 @@
 
 ## 8. 화면 구조
 
+### 8.0 공개 서비스 진입
+
+- 공개 홍보 랜딩
+- 운영센터·강사센터 고객 유형 선택
+- 운영센터 로그인
+- 강사 로그인·회원가입
+
 ### 8.1 관리자 정보구조
 
 - 홈
@@ -398,6 +415,15 @@
 - 정보량은 충분하되 장식 요소로 판단을 방해하지 않는다.
 - 상태를 색상만으로 표현하지 않고 아이콘과 텍스트를 함께 사용한다.
 - 관리자와 강사의 사용 환경을 분리해 설계한다.
+- 공개 랜딩은 두 사용자의 핵심 이점을 짧은 헤드라인과 실제 제품 화면으로 즉시 전달한다.
+
+### 9.1.1 공개 랜딩페이지
+
+- 서비스명 `클래스플로우`와 운영사 `NGN-X`의 관계를 명확히 표시한다.
+- 모바일에서는 세로형 헤드라인·휴대전화 목업·핵심 이점 카드 순서로 구성한다.
+- 데스크톱에서는 헤드라인과 휴대전화 제품 화면을 좌우로 배치한다.
+- 운영센터와 강사 이점은 같은 위계의 두 영역으로 구분한다.
+- 주요 행동은 `시작하기` 하나로 집중하고 이후 고객 유형을 선택하게 한다.
 
 ### 9.2 관리자 화면
 
@@ -628,7 +654,6 @@
 
 다음 항목은 상세 설계 또는 개발 착수 전에 확정해야 한다.
 
-- 서비스명과 브랜드 아이덴티티
 - 회원가입 인증 방식
 - 개인별 응답 링크의 추가 본인 확인 수준
 - 향후 알림톡 도입 판단 지표, 발송 사업자 및 템플릿 정책
@@ -655,3 +680,4 @@
 | 0.3 | 2026-08-08 | 주강사·보조강사 수업료 분리 입력과 모집·응답·배정·변경 이력 표시 규칙 추가 |
 | 0.6 | 2026-08-09 | 운영센터 로그아웃, 관리자 초대·권한·상태 관리, 보안 세션과 활동 기록 요구사항 추가 |
 | 0.7 | 2026-08-12 | 알림톡 필수를 내부 알림+무료 웹 푸시 기본, 카카오톡 공유 보조, 알림톡 선택 확장으로 변경하고 실제 응답 집계·선택 재알림 요구사항 명확화 |
+| 0.8 | 2026-08-12 | NGN-X를 운영업체명, 클래스플로우를 서비스명으로 확정하고 공개 랜딩·고객 유형 선택·역할별 대시보드 진입 요구사항 추가 |

diff --git a/docs/ROUTES_AND_SCREENS.md b/docs/ROUTES_AND_SCREENS.md
@@ -1,15 +1,19 @@
 # 화면과 경로
 
-## 현재 프로토타입
+## 현재 서비스 라우팅
 
-- `/`: 관리자 앱과 강사 모바일 미리보기를 전환하는 단일 인터랙티브 프로토타입
+- `/`: 운영센터와 강사 모두를 대상으로 하는 공개 랜딩. 활성 세션에는 역할별 센터 이동 버튼을 표시한다.
+- `/start`: 익명 사용자의 운영센터·강사센터 선택 화면. 활성 세션은 역할별 대시보드로 즉시 이동한다.
+- `/operations`: 최고관리자·운영관리자 전용 운영 대시보드
+- `/login`: 운영센터 로그인
+- `/instructor/login`, `/instructor/signup`: 강사 로그인·회원가입
 - 관리자 수업 화면은 실제 Supabase 수업의 `classId`를 기준으로 상세 → 강사 모집 → 응답 현황 → 최종 배정 단계를 연결한다.
 - `/instructor/dashboard`: 실제 모집 요청을 역할별로 확인하고 가능·조건부 가능·불가능으로 응답한다.
 
 ## 상용 라우팅 목표
 
 - `/login`, `/signup`, `/pending`
-- `/admin`: 관리자 홈
+- `/operations`: 현재 통합 관리자 홈·수업·배정·일정·강사·승인·알림 화면
 - `/admin/classes`, `/admin/classes/new`, `/admin/classes/:id`
 - `/admin/classes/:id/recipients`, `/responses`, `/assignment`
 - `/admin/schedule`, `/admin/instructors`, `/admin/instructors/:id`

diff --git a/docs/PROJECT_CONTEXT.md b/docs/PROJECT_CONTEXT.md
@@ -2,12 +2,12 @@
 
 ## 제품 한 줄 정의
 
-클래스플로우(가칭)는 소규모 교육업체가 강사에게 역할별 출강 요청을 보내고 응답을 모아 최종 배정하는 운영 플랫폼이다.
+클래스플로우는 NGN-X와 같은 소규모 교육업체가 강사에게 역할별 출강 요청을 보내고 응답을 모아 최종 배정하는 운영 플랫폼이다.
 
 ## 기준 문서
 
 - 제품 요구사항의 최상위 기준은 루트의 `prd(1).md`다.
-- 서비스명 `클래스플로우`는 UI 제작을 위한 가칭이며 제품 요구사항 확정으로 보지 않는다.
+- 운영업체명은 `NGN-X`, 서비스명은 `클래스플로우`로 확정한다.
 - PRD는 사용자 범위, 핵심 흐름, 권한, 비즈니스 규칙, 기능 범위가 바뀔 때만 수정한다.
 
 ## 핵심 사용자와 가치
@@ -16,6 +16,7 @@
 - 운영 관리자: 수업 등록, 모집, 재알림, 최종 배정
 - 소속 강사: 모바일 링크에서 역할별 수업료를 확인하고 응답, 확정 일정 확인
 - 핵심 가치: 단체 카카오톡과 개별 연락을 내부 알림·무료 웹 푸시·구조화된 응답 흐름으로 대체
+- 익명 방문자: 공개 랜딩에서 운영센터와 강사의 이점을 확인하고 본인의 센터로 진입
 
 ## 반드시 유지할 규칙
 
